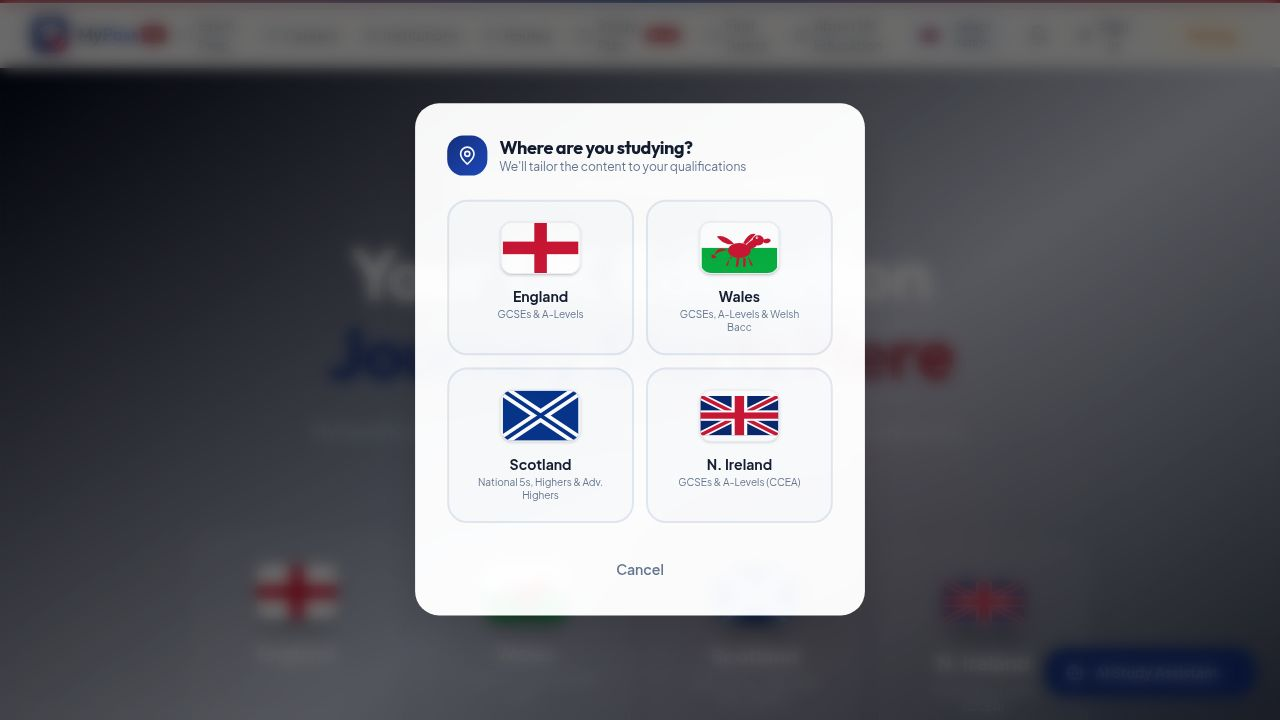
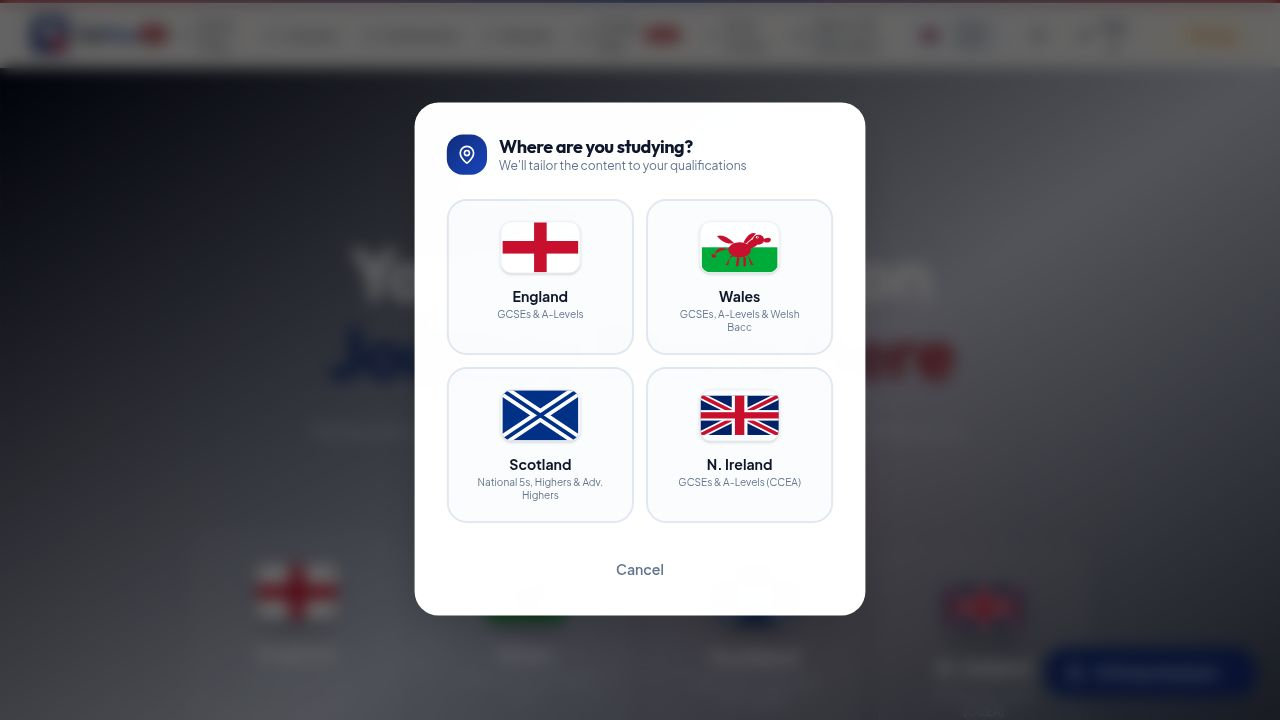
Add institution analytics dashboard and apply now button for featured institutions
Adds a new API endpoint for tracking institution views and apply clicks, creates a new `institution_analytics` table, and displays this data in an admin dashboard. Also adds an "Apply Now" button to featured institution profiles and updates the pricing page.

Replit-Commit-Author: Agent
Replit-Commit-Session-Id: 71be2178-80ac-4081-bbe0-8395f624f365
Replit-Commit-Checkpoint-Type: full_checkpoint
Replit-Commit-Event-Id: 2380fd72-2244-4ba2-9b7a-de0013154459
Replit-Commit-Screenshot-Url: https://storage.googleapis.com/screenshot-production-us-central1/df549543-32b7-49b4-84a8-8cbe87d7eb40/71be2178-80ac-4081-bbe0-8395f624f365/j6MxExq
Replit-Helium-Checkpoint-Created: true

diff --git a/artifacts/uk-education-guide/src/pages/Admin.tsx b/artifacts/uk-education-guide/src/pages/Admin.tsx
@@ -349,9 +349,100 @@ function StatsPanel() {
   );
 }
 
+// ─── Institution Analytics panel ──────────────────────────────────────────────
+
+interface InstitutionAnalytics {
+  id: number;
+  name: string;
+  views: number;
+  applyClicks: number;
+}
+
+function AnalyticsPanel() {
+  const [rows, setRows] = useState<InstitutionAnalytics[]>([]);
+  const [loading, setLoading] = useState(true);
+
+  const load = useCallback(async () => {
+    setLoading(true);
+    const res = await fetch(`${BASE}/api/admin/institution-analytics`, { credentials: "include" });
+    if (res.ok) { const d = await res.json(); setRows(d.institutions); }
+    setLoading(false);
+  }, []);
+
+  useEffect(() => { load(); }, [load]);
+
+  const totalViews = rows.reduce((s, r) => s + r.views, 0);
+  const totalClicks = rows.reduce((s, r) => s + r.applyClicks, 0);
+
+  return (
+    <div>
+      <div className="flex items-center justify-between mb-6">
+        <p className="text-slate-400 text-sm">Views & apply-clicks for all featured institutions</p>
+        <button onClick={load} className="flex items-center gap-1.5 px-3 py-1.5 text-slate-400 hover:text-white hover:bg-slate-800 rounded-lg text-sm transition-colors">
+          <RefreshCw className={`w-3.5 h-3.5 ${loading ? "animate-spin" : ""}`} /> Refresh
+        </button>
+      </div>
+
+      <div className="grid grid-cols-2 gap-4 mb-6">
+        <div className="bg-blue-500/10 border border-blue-500/20 rounded-2xl p-5">
+          <p className="text-slate-400 text-xs font-semibold uppercase tracking-wider mb-2">Total Profile Views</p>
+          <p className="text-3xl font-bold text-blue-400">{totalViews.toLocaleString()}</p>
+        </div>
+        <div className="bg-green-500/10 border border-green-500/20 rounded-2xl p-5">
+          <p className="text-slate-400 text-xs font-semibold uppercase tracking-wider mb-2">Total Apply Clicks</p>
+          <p className="text-3xl font-bold text-green-400">{totalClicks.toLocaleString()}</p>
+        </div>
+      </div>
+
+      <div className="bg-slate-900 border border-slate-800 rounded-2xl overflow-hidden">
+        <table className="w-full">
+          <thead>
+            <tr className="border-b border-slate-800 bg-slate-800/50">
+              <th className="px-4 py-3 text-left text-xs font-bold text-slate-400 uppercase tracking-wider">Institution</th>
+              <th className="px-4 py-3 text-right text-xs font-bold text-slate-400 uppercase tracking-wider">Profile Views</th>
+              <th className="px-4 py-3 text-right text-xs font-bold text-slate-400 uppercase tracking-wider">Apply Clicks</th>
+              <th className="px-4 py-3 text-right text-xs font-bold text-slate-400 uppercase tracking-wider">Click Rate</th>
+            </tr>
+          </thead>
+          <tbody>
+            {loading ? (
+              <tr><td colSpan={4} className="px-4 py-16 text-center text-slate-500">Loading…</td></tr>
+            ) : rows.length === 0 ? (
+              <tr><td colSpan={4} className="px-4 py-16 text-center text-slate-500">No featured institutions yet</td></tr>
+            ) : rows.map(r => {
+              const ctr = r.views > 0 ? ((r.applyClicks / r.views) * 100).toFixed(1) : "0.0";
+              return (
+                <tr key={r.id} className="border-b border-slate-800 hover:bg-slate-800/40 transition-colors">
+                  <td className="px-4 py-3">
+                    <div className="flex items-center gap-2">
+                      <div className="w-7 h-7 bg-amber-500/20 rounded-lg flex items-center justify-center shrink-0">
+                        <Building2 className="w-3.5 h-3.5 text-amber-400" />
+                      </div>
+                      <span className="font-semibold text-sm text-white">{r.name}</span>
+                    </div>
+                  </td>
+                  <td className="px-4 py-3 text-right">
+                    <span className="text-blue-400 font-bold">{r.views.toLocaleString()}</span>
+                  </td>
+                  <td className="px-4 py-3 text-right">
+                    <span className="text-green-400 font-bold">{r.applyClicks.toLocaleString()}</span>
+                  </td>
+                  <td className="px-4 py-3 text-right">
+                    <span className={`text-sm font-semibold ${Number(ctr) >= 5 ? "text-green-400" : Number(ctr) >= 2 ? "text-amber-400" : "text-slate-400"}`}>{ctr}%</span>
+                  </td>
+                </tr>
+              );
+            })}
+          </tbody>
+        </table>
+      </div>
+    </div>
+  );
+}
+
 // ─── Main dashboard ───────────────────────────────────────────────────────────
 
-type AdminTab = "promoCodes" | "users" | "stats";
+type AdminTab = "promoCodes" | "users" | "stats" | "analytics";
 
 function Dashboard({ onLogout }: { onLogout: () => void }) {
   const [codes, setCodes] = useState<PromoCode[]>([]);
@@ -387,6 +478,7 @@ function Dashboard({ onLogout }: { onLogout: () => void }) {
     { id: "promoCodes", label: "Promo Codes", icon: Gift },
     { id: "users", label: "Users", icon: Users },
     { id: "stats", label: "Platform Stats", icon: BarChart3 },
+    { id: "analytics", label: "Institution Analytics", icon: Building2 },
   ];
 
   return (
@@ -503,6 +595,7 @@ function Dashboard({ onLogout }: { onLogout: () => void }) {
 
         {tab === "users" && <UsersPanel />}
         {tab === "stats" && <StatsPanel />}
+        {tab === "analytics" && <AnalyticsPanel />}
       </div>
 
       <AnimatePresence>

diff --git a/artifacts/api-server/src/routes/institutions.ts b/artifacts/api-server/src/routes/institutions.ts
@@ -1,7 +1,7 @@
 import { Router, type IRouter } from "express";
 import { db } from "@workspace/db";
-import { institutionsTable } from "@workspace/db/schema";
-import { eq } from "drizzle-orm";
+import { institutionsTable, institutionAnalyticsTable } from "@workspace/db/schema";
+import { eq, sql } from "drizzle-orm";
 
 const router: IRouter = Router();
 
@@ -70,6 +70,66 @@ router.get("/institutions/:id", async (req, res) => {
   } catch (err) {
     req.log.error({ err }, "Failed to fetch institution");
     res.status(500).json({ error: "Internal Server Error", message: "Failed to fetch institution" });
+  }
+});
+
+router.post("/institutions/:id/track", async (req, res) => {
+  try {
+    const id = parseInt(req.params.id, 10);
+    if (isNaN(id)) { res.status(400).json({ error: "Invalid id" }); return; }
+    const { eventType } = req.body as { eventType?: string };
+    if (eventType !== "view" && eventType !== "apply_click") {
+      res.status(400).json({ error: "eventType must be 'view' or 'apply_click'" });
+      return;
+    }
+    await db.insert(institutionAnalyticsTable).values({ institutionId: id, eventType });
+    res.json({ ok: true });
+  } catch (err) {
+    req.log.error({ err }, "Failed to track institution event");
+    res.status(500).json({ error: "Internal Server Error" });
+  }
+});
+
+router.get("/admin/institution-analytics", async (req: any, res) => {
+  try {
+    if (!req.user || req.user.email !== "[email redacted]") {
+      res.status(403).json({ error: "Forbidden" });
+      return;
+    }
+    const rows = await db
+      .select({
+        institutionId: institutionAnalyticsTable.institutionId,
+        eventType: institutionAnalyticsTable.eventType,
+        count: sql<number>`cast(count(*) as int)`,
+      })
+      .from(institutionAnalyticsTable)
+      .groupBy(institutionAnalyticsTable.institutionId, institutionAnalyticsTable.eventType);
+
+    const featured = await db
+      .select({ id: institutionsTable.id, name: institutionsTable.name })
+      .from(institutionsTable)
+      .where(eq(institutionsTable.featured, true));
+
+    const analyticsMap: Record<number, { views: number; applyClicks: number }> = {};
+    for (const row of rows) {
+      if (!analyticsMap[row.institutionId]) {
+        analyticsMap[row.institutionId] = { views: 0, applyClicks: 0 };
+      }
+      if (row.eventType === "view") analyticsMap[row.institutionId].views = row.count;
+      if (row.eventType === "apply_click") analyticsMap[row.institutionId].applyClicks = row.count;
+    }
+
+    const result = featured.map(inst => ({
+      id: inst.id,
+      name: inst.name,
+      views: analyticsMap[inst.id]?.views ?? 0,
+      applyClicks: analyticsMap[inst.id]?.applyClicks ?? 0,
+    })).sort((a, b) => b.views - a.views);
+
+    res.json({ institutions: result });
+  } catch (err) {
+    req.log.error({ err }, "Failed to fetch institution analytics");
+    res.status(500).json({ error: "Internal Server Error" });
   }
 });
 

diff --git a/artifacts/uk-education-guide/src/pages/InstitutionDetail.tsx b/artifacts/uk-education-guide/src/pages/InstitutionDetail.tsx
@@ -3,14 +3,29 @@ import { useGetInstitutionById, useGetCareers } from "@workspace/api-client-reac
 import { LoadingSpinner } from "@/components/ui/LoadingSpinner";
 import {
   ArrowLeft, Building2, MapPin, GraduationCap, Star, Trophy,
-  Globe, Users, CheckCircle2, BookOpen, Landmark, ExternalLink
+  Globe, Users, CheckCircle2, BookOpen, Landmark, ExternalLink, Send
 } from "lucide-react";
 import { motion } from "framer-motion";
+import { useEffect } from "react";
+
+const BASE = import.meta.env.BASE_URL.replace(/\/$/, "");
+
+function trackEvent(institutionId: number, eventType: "view" | "apply_click") {
+  fetch(`${BASE}/api/institutions/${institutionId}/track`, {
+    method: "POST",
+    headers: { "Content-Type": "application/json" },
+    body: JSON.stringify({ eventType }),
+  }).catch(() => {});
+}
 
 export default function InstitutionDetail() {
   const { id } = useParams<{ id: string }>();
   const { data: institution, isLoading, error } = useGetInstitutionById(Number(id));
   const { data: allCareers } = useGetCareers();
+
+  useEffect(() => {
+    if (institution?.id) trackEvent(institution.id, "view");
+  }, [institution?.id]);
 
   if (isLoading) return <LoadingSpinner className="mt-32" />;
   if (error || !institution) return (
@@ -233,6 +248,20 @@ export default function InstitutionDetail() {
                 </div>
               </div>
             </div>
+
+            {/* Apply CTA — only for featured institutions with applyUrl */}
+            {institution.featured && (institution as any).applyUrl && (
+              <a
+                href={(institution as any).applyUrl}
+                target="_blank"
+                rel="noopener noreferrer"
+                onClick={() => trackEvent(institution.id, "apply_click")}
+                className="flex items-center justify-center gap-3 w-full py-4 bg-accent text-white rounded-2xl font-bold hover:bg-accent/90 transition-colors shadow-lg shadow-accent/25"
+              >
+                <Send className="w-5 h-5" /> Apply Now
+                <ExternalLink className="w-4 h-4 opacity-70" />
+              </a>
+            )}
 
             {/* Official Website Link */}
             {institution.websiteUrl && (

diff --git a/lib/db/src/schema/institutions.ts b/lib/db/src/schema/institutions.ts
@@ -1,4 +1,4 @@
-import { pgTable, serial, text, integer, boolean, real, jsonb } from "drizzle-orm/pg-core";
+import { pgTable, serial, text, integer, boolean, real, jsonb, timestamp } from "drizzle-orm/pg-core";
 import { createInsertSchema } from "drizzle-zod";
 import { z } from "zod/v4";
 
@@ -26,8 +26,17 @@ export const institutionsTable = pgTable("institutions", {
   applicationDeadline: text("application_deadline"),
   applicationsOpen: text("applications_open"),
   featured: boolean("featured").default(false),
+  applyUrl: text("apply_url"),
 });
 
 export const insertInstitutionSchema = createInsertSchema(institutionsTable).omit({ id: true });
+
+export const institutionAnalyticsTable = pgTable("institution_analytics", {
+  id: serial("id").primaryKey(),
+  institutionId: integer("institution_id").notNull().references(() => institutionsTable.id, { onDelete: "cascade" }),
+  eventType: text("event_type").notNull(), // 'view' | 'apply_click'
+  createdAt: timestamp("created_at").defaultNow().notNull(),
+});
+
 export type InsertInstitution = z.infer<typeof insertInstitutionSchema>;
 export type Institution = typeof institutionsTable.$inferSelect;

diff --git a/artifacts/uk-education-guide/src/pages/Pricing.tsx b/artifacts/uk-education-guide/src/pages/Pricing.tsx
@@ -34,10 +34,10 @@ const PREMIUM_FEATURES = [
 
 const INSTITUTION_FEATURES = [
   "Featured listing — appear at the top of all searches",
-  "Enhanced profile with photos & open day highlights",
+  "Enhanced profile with open day highlights",
   "Recruitment alert priority placement",
-  "Analytics dashboard — views & click-throughs",
-  "Direct application CTA button on your profile",
+  "Analytics dashboard — profile views & apply clicks",
+  "Direct 'Apply Now' button on your profile",
   "Dedicated account manager",
   "Cancel anytime",
 ];